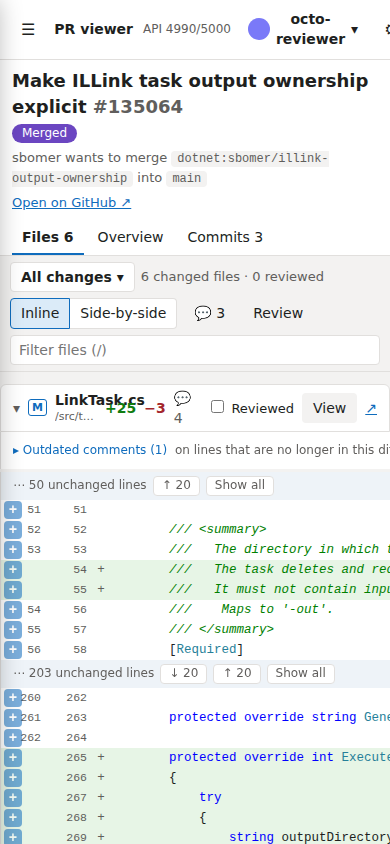
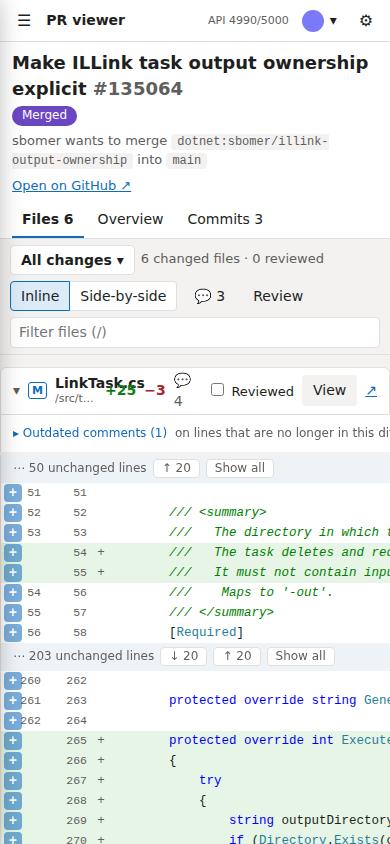
hexad checkpoint: q34

diff --git a/prview/style.css b/prview/style.css
@@ -175,3 +175,4 @@ dialog { max-height: 90vh; overflow: auto; }
 #cpanel .pf { padding: 8px 12px 2px; font: 600 12px var(--mono); color: var(--muted); overflow: hidden; text-overflow: ellipsis; white-space: nowrap; direction: rtl; text-align: left; }
 #cpanel .pt { display: flex; gap: 8px; padding: 6px 12px; cursor: pointer; border-top: 1px solid var(--line); } #cpanel .pt:hover { background: var(--hover); } #cpanel .pm { min-width: 0; flex: 1; } #cpanel .who { font-size: 12px; } #cpanel .ex { display: block; color: var(--muted); font-size: 12px; overflow: hidden; text-overflow: ellipsis; white-space: nowrap; }
 @media (max-width: 800px) { #cpanel { position: fixed; z-index: 28; right: 0; top: 0; bottom: 0; width: min(92vw, 360px); box-shadow: -4px 0 24px rgba(0,0,0,.3); } .thread { margin-left: 8px; } .olist { margin-left: 8px; } }
+@media (max-width: 800px) { #who-login { display: none; } #top { gap: 6px; padding: 6px 8px; } #rate { font-size: 11px; } }
